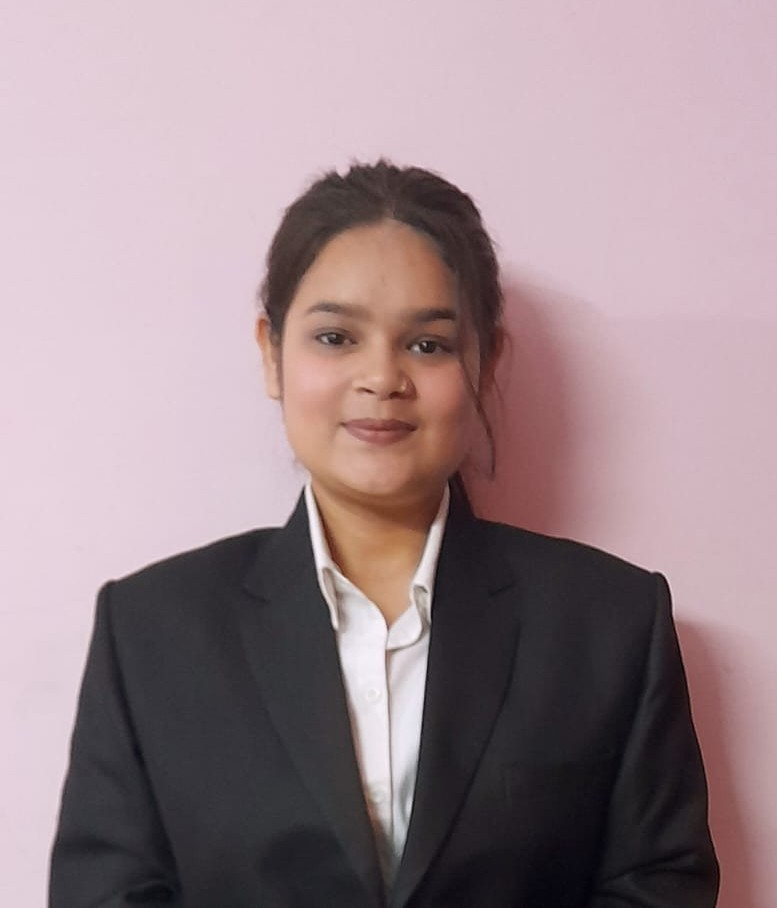
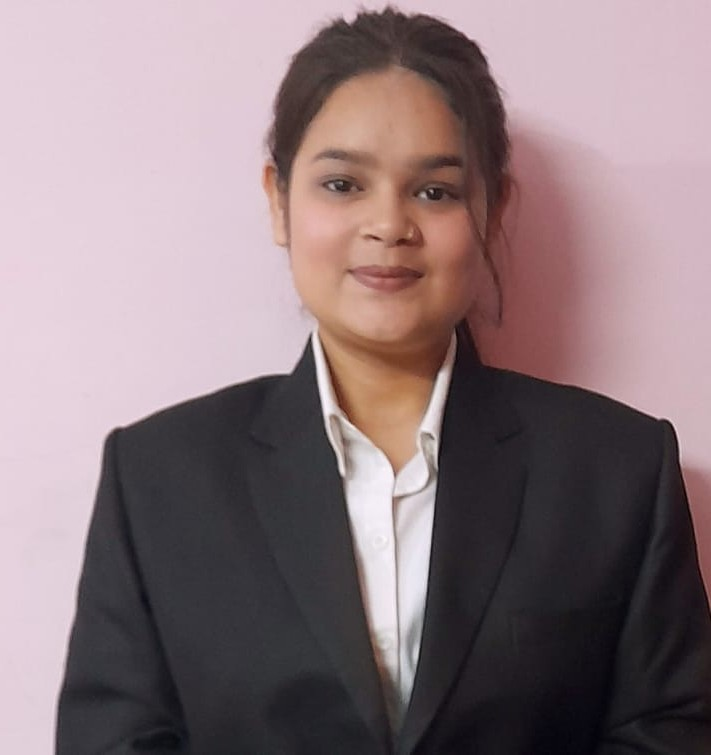
Your commit message here

diff --git a/css/style.css b/css/style.css
@@ -304,34 +304,35 @@ h3.my-profession
     text-align: center;
     position: relative;
 }
-.home .home-img::after
-{
-    content: '';
-    position: absolute;
-    height: 80px;
-    width: 80px;
-    border-bottom: 10px solid var(--skin-color);
-    border-right: 10px solid var(--skin-color);
-    right: 20px;
-    bottom: -40px;
-}
-.home .home-img::before
-{
-    content: '';
-    position: absolute;
-    height: 80px;
-    width: 80px;
-    border-top: 10px solid var(--skin-color);
-    border-left: 10px solid var(--skin-color);
-    left: -20px;
-    top: -40px;
-}
+
 .home .home-img img
 {
     margin: auto;
     border-radius: 5px;
     height: 400px;
 }
+
+@media (max-width: 768px) {
+    .home .home-img {
+        flex: 0 0 100%;
+        max-width: 100%;
+        padding: 0;              /* 🔹 कोई padding नहीं, edge-to-edge effect के लिए */
+        margin: 0;
+    }
+
+    .home .home-img img {
+        width: 90vw;            /* 🔹 पूरी viewport width */
+        height: 350px;           /* 🔹 जरूरत अनुसार आप इसे और बढ़ा सकते हैं */
+        display: block;
+        object-fit: cover;       /* 🔹 image को क्रॉप करके भी पूरा container भर दे */
+        border-radius: 0;        /* 🔹 edge-to-edge के लिए rounded corners हटा दीं */
+    }
+}
+
+
+
+
+
 .about .about-content
 {
     flex: 0 0 100%;
@@ -363,7 +364,7 @@ h3.my-profession
 {
     flex: 0 0 60%;
     max-width: 60%;
-    margin-top: 40px;
+    margin-top: 20px;
 }
 .about .about-content .personal-info .info-item
 {

diff --git a/README.md b/README.md
@@ -1,4 +1,4 @@
 # Resume
 My resume from complete web development course
 
-Click Here : - <a href="https://pragati44.github.io/Resume/?fbclid=PAAaZmpf1RhRqLeEJXYr0hEKHfpPqzvPQRwd0cHmDvKi6BG52bzDbl_RfhtWU"> Live Demo</a>
+Click Here : - <a href="https://pragati44.github.io/Resume/"> Live Demo</a>
